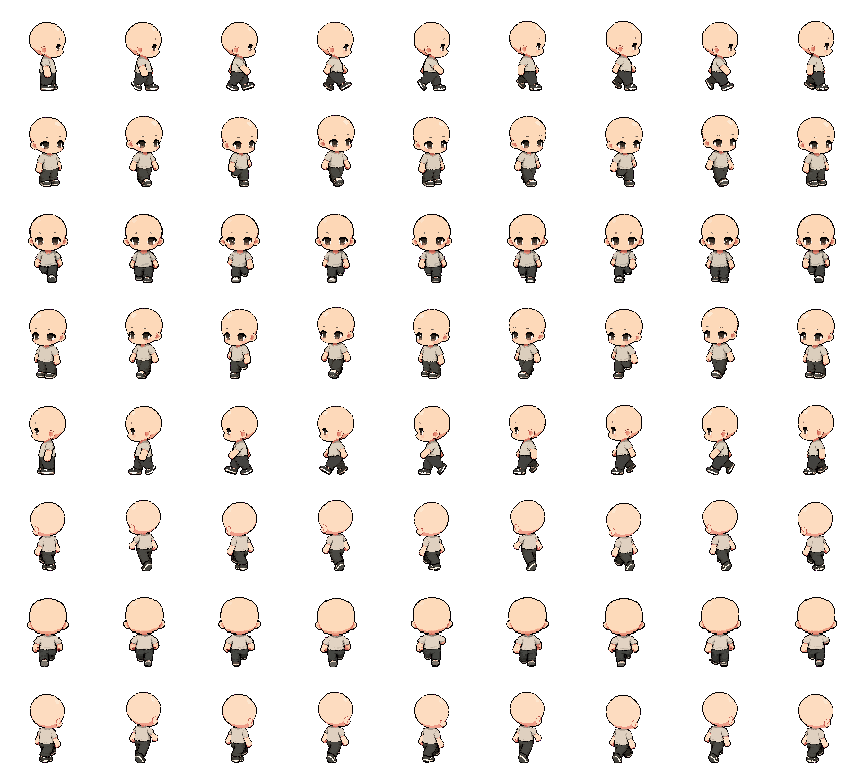
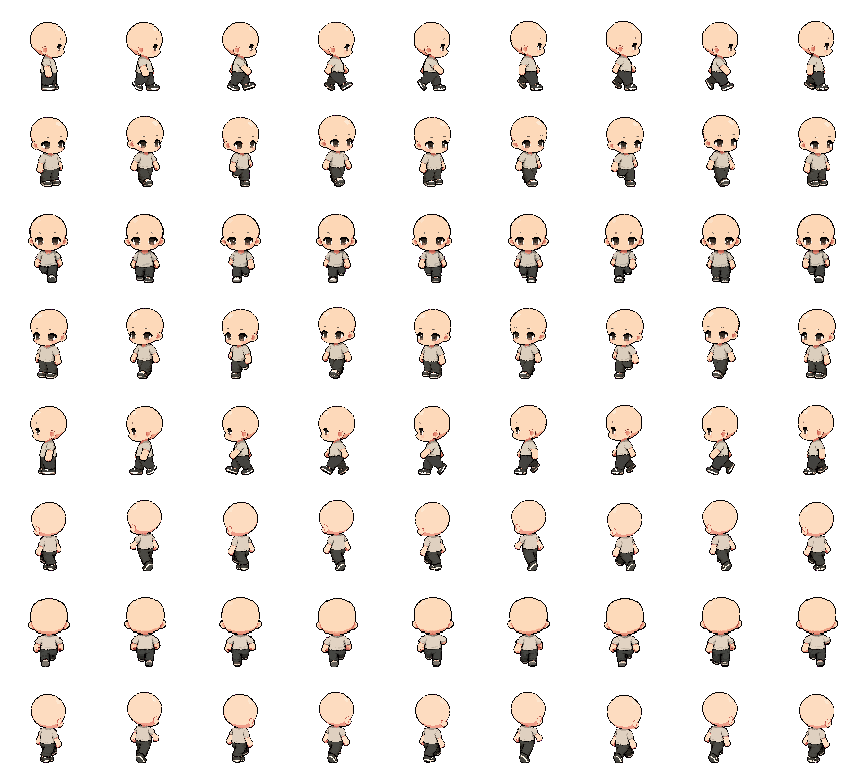
walk_sheet: centre frames on the head so swinging arms don't shift the body sideways

diff --git a/tools/walk_sheet.py b/tools/walk_sheet.py
@@ -19,7 +19,7 @@ import numpy as np
 from PIL import Image
 
 sys.path.insert(0, str(Path(__file__).parent))
-from strip_frames import split  # noqa: E402
+from strip_frames import split, head  # noqa: E402
 
 ROOT = Path(__file__).parent.parent
 CELL, FEET = 96, 90
@@ -91,7 +91,8 @@ def main():
             if mirror:
                 f = f[:, ::-1]
             h, w = f.shape[:2]
-            top, left = FEET - h + 1, (CELL - w) // 2
+            # centre on the head, not the whole figure: swinging arms change the width, the head stays put
+            top, left = FEET - h + 1, int(round(CELL / 2 - head(f)[2]))
             cell = sheet[r * CELL:(r + 1) * CELL, k * CELL:(k + 1) * CELL]
             m = f[..., 3] > 0
             cell[top:top + h, left:left + w][m] = f[m]
